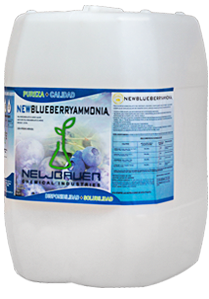
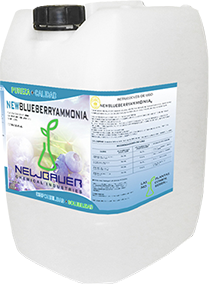
Fixed error from menu nav bar, also replaced products photos

diff --git a/css/main.css b/css/main.css
@@ -2082,6 +2082,7 @@ textarea {
 
     .showMobNav{
         margin: 50px 0 0 0 !important;
+        height: 210px !important;
     }
 
     #mobNav li{
@@ -2163,9 +2164,11 @@ textarea {
             }
 
             .slogan{
+                position: relative;
                 width: 230px;
                 bottom: -21px;
                 right: 100%;
+                top: 1px;
             }
         /*END MOBILE NAV*/
 
